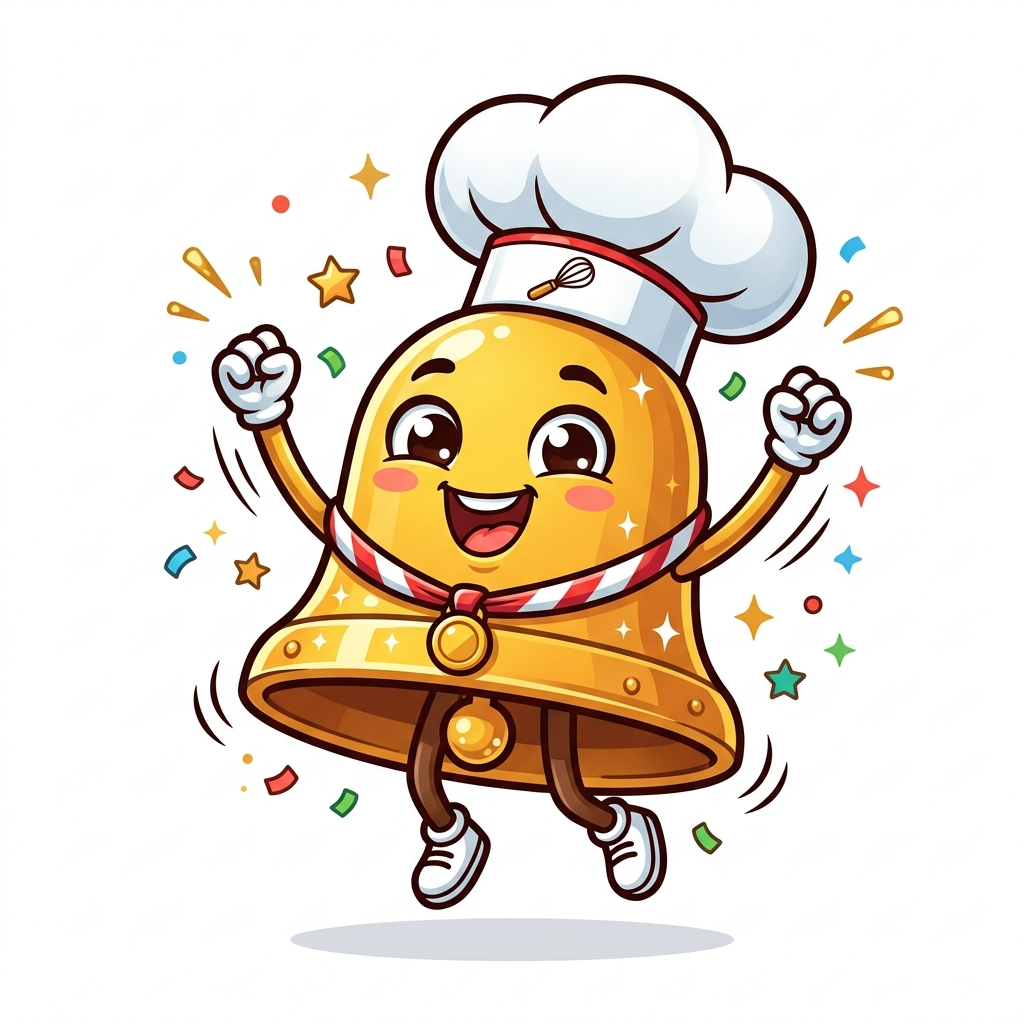
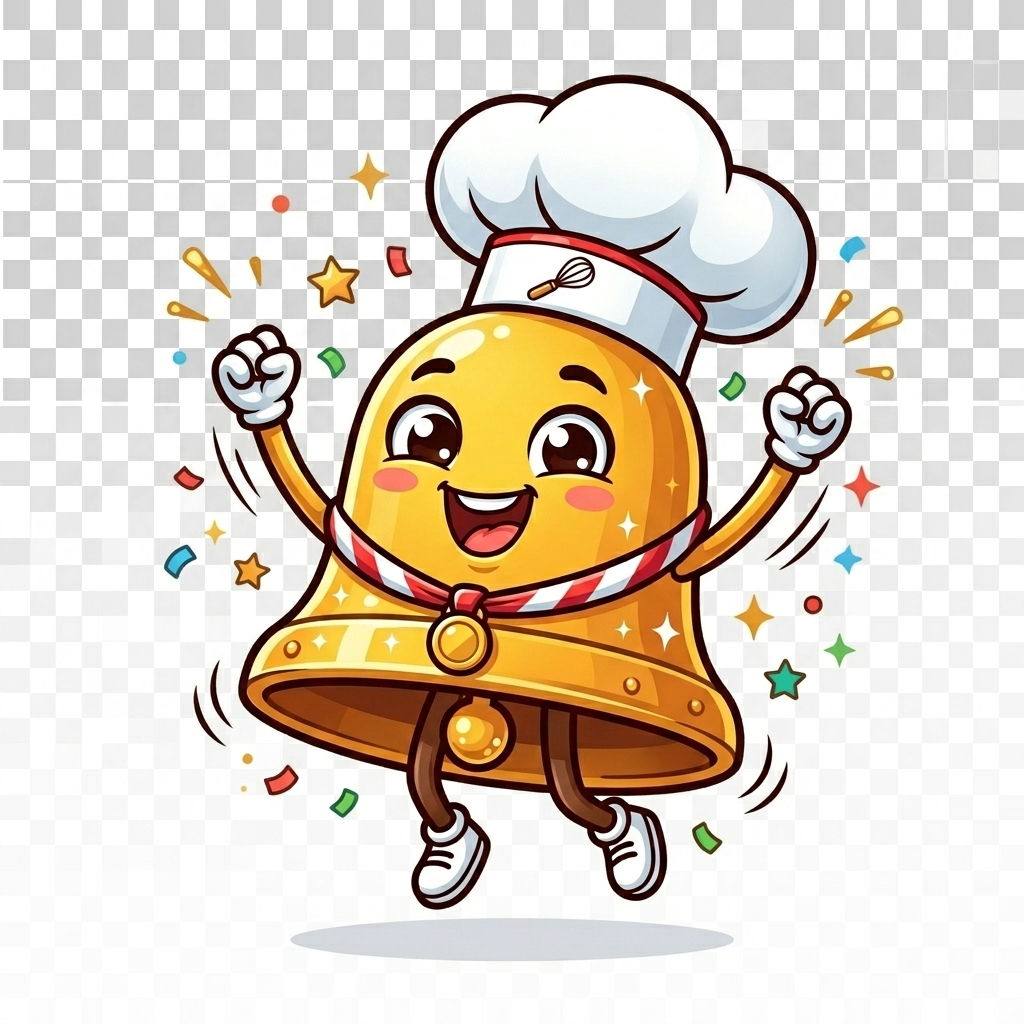
Polish celebration UI: transparent mascot and detailed animations

Changed region(s): [[0.0, 0.0, 1.0, 0.5], [0.2812, 0.5, 0.3125, 0.5312], [0.1875, 0.5312, 0.2188, 0.5625]]

diff --git a/src/screens/LandingScreen.tsx b/src/screens/LandingScreen.tsx
@@ -2032,11 +2032,12 @@ export default function LandingScreen() {
           </div>
 
           <div className="bg-[#431407]/95 border-4 border-[#fbbf24] text-white rounded-[2rem] p-8 max-w-sm w-[90%] shadow-[0_0_80px_rgba(251,191,36,0.6)] relative flex flex-col items-center text-center animate-scale-in z-10">
-            <div className="absolute -top-24 w-48 h-48">
-              <img src="/bell_mascot.png" alt="Bells Mascot" className="w-full h-full object-contain drop-shadow-[0_10px_20px_rgba(0,0,0,0.8)] animate-float" />
+            <div className="absolute -top-28 w-56 h-56 animate-mascot-pop flex items-center justify-center">
+              <div className="absolute inset-0 bg-yellow-400/20 rounded-full blur-2xl animate-sunburst-spin pointer-events-none" />
+              <img src="/bell_mascot.png" alt="Bells Mascot" className="relative w-full h-full object-contain drop-shadow-[0_15px_30px_rgba(0,0,0,0.9)] z-10" />
             </div>
             
-            <h2 className="text-3xl font-black italic mt-20 mb-2 text-[#fbbf24] drop-shadow-md uppercase tracking-wider">You're a Pro!</h2>
+            <h2 className="text-3xl font-black italic mt-20 mb-2 text-[#fbbf24] drop-shadow-md uppercase tracking-wider animate-text-shimmer">You're a Pro!</h2>
             <p className="text-white/90 text-sm font-semibold leading-relaxed mb-8">
               Congratulations! You've mastered the art of ordering at Bells Kitchen. Now it's time to satisfy those cravings!
             </p>
@@ -2058,6 +2059,31 @@ export default function LandingScreen() {
         }
         .animate-confetti {
           animation: confetti linear forwards;
+        }
+        @keyframes mascot-pop {
+          0% { transform: scale(0) rotate(-20deg) translateY(50px); opacity: 0; }
+          60% { transform: scale(1.2) rotate(10deg) translateY(-10px); opacity: 1; }
+          80% { transform: scale(0.9) rotate(-5deg); opacity: 1; }
+          100% { transform: scale(1) rotate(0deg); opacity: 1; }
+        }
+        .animate-mascot-pop {
+          animation: mascot-pop 0.8s cubic-bezier(0.175, 0.885, 0.32, 1.275) forwards;
+        }
+        @keyframes sunburst-spin {
+          0% { transform: rotate(0deg) scale(0.8); opacity: 0.5; }
+          50% { transform: rotate(180deg) scale(1.2); opacity: 0.8; }
+          100% { transform: rotate(360deg) scale(0.8); opacity: 0.5; }
+        }
+        .animate-sunburst-spin {
+          animation: sunburst-spin 8s linear infinite;
+        }
+        @keyframes text-shimmer {
+          0% { text-shadow: 0 0 10px rgba(251,191,36,0.2); transform: scale(1); }
+          50% { text-shadow: 0 0 30px rgba(251,191,36,0.8), 0 0 10px #fff; transform: scale(1.05); }
+          100% { text-shadow: 0 0 10px rgba(251,191,36,0.2); transform: scale(1); }
+        }
+        .animate-text-shimmer {
+          animation: text-shimmer 2s ease-in-out infinite;
         }
          .scroll-anim {
           opacity: 0;